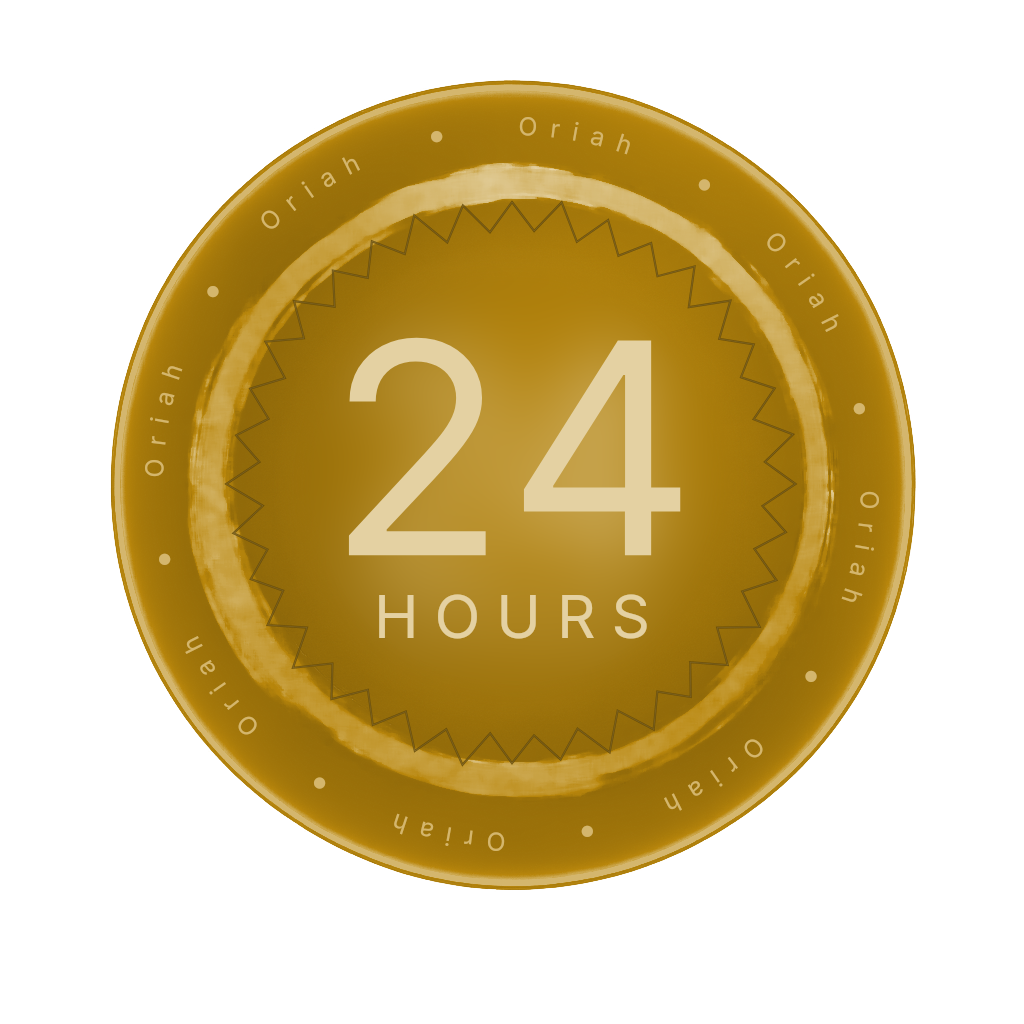
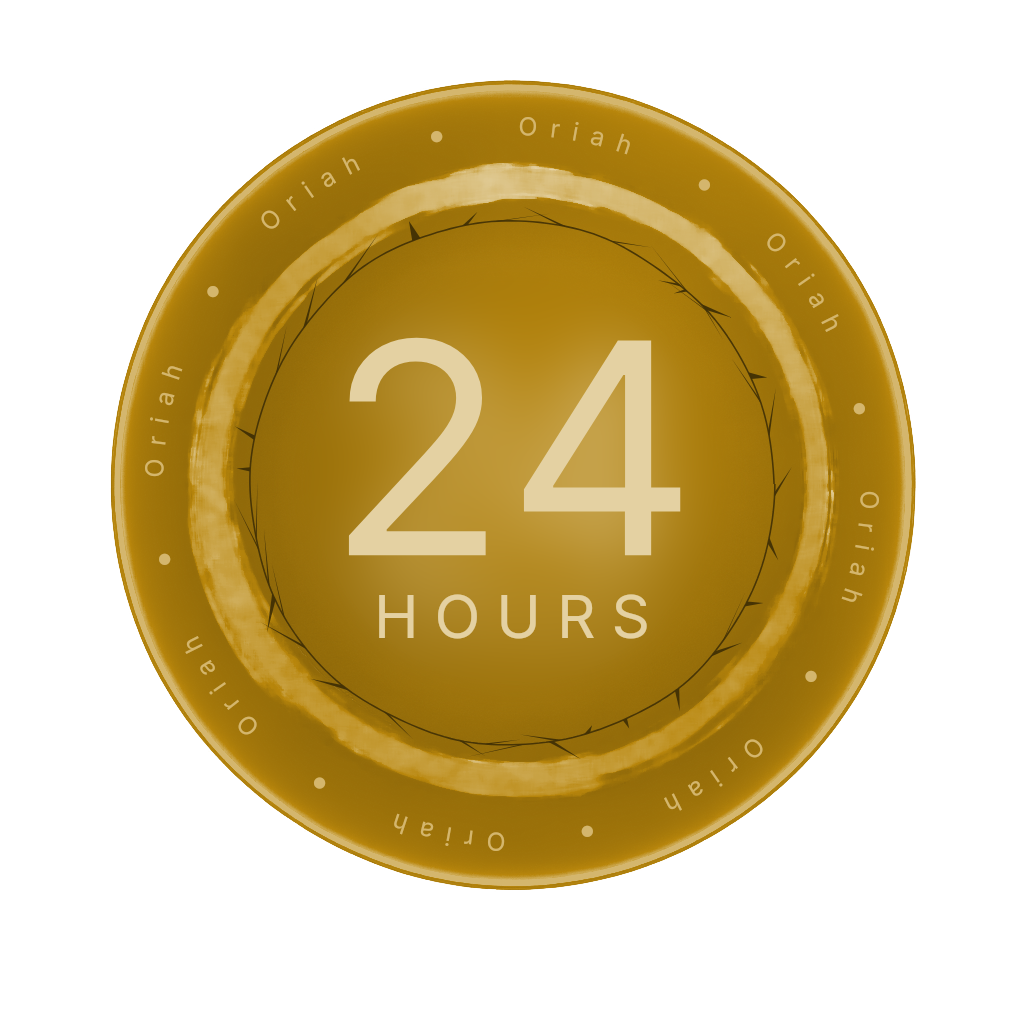
Oriah preview v2: organic thorn crown (woven branch + spikes)

diff --git a/oriah-badges-staging/scripts/generate-oriah-badges.ts b/oriah-badges-staging/scripts/generate-oriah-badges.ts
@@ -374,54 +374,116 @@ function drawMicroTypography(ctx: SKRSContext2D, hex: string) {
   ctx.drawImage(layer, 0, 0)
 }
 
-// Crown of thorns — a jagged closed ring drawn between the inner disc
-// and the chrome ring. Many sharp inward-pointing spikes around the
-// perimeter, evoking the crown without being literal. Drawn in a slightly
-// darker etched tone of the badge color so it reads as engraved metal.
+// Crown of thorns — a thin twisted branch encircling the inner disc, with
+// short sharp thorns sticking out at irregular angles. Aims to evoke
+// Christ's crown rather than read as a decorative sawtooth border. Drawn
+// in a darker etched tone of the badge color so it reads as engraved.
 function drawCrownOfThorns(ctx: SKRSContext2D, hex: string) {
-  // Spikes alternate between two radii (outer base + inner tip).
-  const baseR = 282      // outer line — sits just outside the inner disc edge
-  const tipR  = 252      // inner tip — pokes inward toward the date area
-  const points = 36      // number of inward spikes
-  // Small organic wobble so it doesn't read as perfectly geometric.
-  const wobble = 4
+  // Base radius of the woven branch. Sits just inside the chrome ring's
+  // inner edge (~r=265) and just outside where the date text reaches.
+  const branchR = 262
 
   const [r, g, b] = hexToRgb(hex)
-  // Darker, etched-into-metal tone — pull toward black + reduce sat.
-  const darkR = Math.round(r * 0.55)
-  const darkG = Math.round(g * 0.55)
-  const darkB = Math.round(b * 0.55)
+  // Dark etched tone — deeper version of the badge color, almost-black.
+  const darkR = Math.round(r * 0.35)
+  const darkG = Math.round(g * 0.35)
+  const darkB = Math.round(b * 0.35)
+  const stroke = `rgba(${darkR}, ${darkG}, ${darkB}, 0.9)`
+  const fill   = `rgba(${darkR}, ${darkG}, ${darkB}, 0.95)`
 
-  // Build the jagged closed path: outer vertex, inner tip, outer vertex, …
-  ctx.save()
-  ctx.beginPath()
-  for (let i = 0; i < points; i++) {
-    const baseAngle = (i / points) * Math.PI * 2 - Math.PI / 2
-    const tipAngle  = baseAngle + Math.PI / points
-    const br = baseR + (Math.sin(i * 1.7) * wobble)
-    const tr = tipR + (Math.cos(i * 2.3) * wobble * 0.5)
-    const bx = CX + Math.cos(baseAngle) * br
-    const by = CY + Math.sin(baseAngle) * br
-    const tx = CX + Math.cos(tipAngle) * tr
-    const ty = CY + Math.sin(tipAngle) * tr
-    if (i === 0) ctx.moveTo(bx, by)
-    else ctx.lineTo(bx, by)
-    ctx.lineTo(tx, ty)
+  // Deterministic pseudo-randomness so thorn placement is stable across runs.
+  let seed = 1337
+  const rand = () => {
+    seed = (seed * 1664525 + 1013904223) % 0x100000000
+    return seed / 0x100000000
   }
-  ctx.closePath()
+  const noise = (t: number) =>
+    Math.sin(t * 3.1) * 1.4 + Math.sin(t * 7.7 + 1.3) * 0.7 + Math.sin(t * 13.4 + 2.7) * 0.4
 
-  // Stroke only — keeps the interior visible (date showing through).
-  ctx.strokeStyle = `rgba(${darkR}, ${darkG}, ${darkB}, 0.85)`
-  ctx.lineWidth = 2.2
-  ctx.lineJoin = 'miter'
-  ctx.miterLimit = 4
+  ctx.save()
+
+  // 1. The woven branch — a thin closed circular line with subtle organic
+  //    wobble. Reads as a thin vine, not a perfect circle.
+  ctx.beginPath()
+  const ringPoints = 240
+  for (let i = 0; i <= ringPoints; i++) {
+    const t = (i / ringPoints) * Math.PI * 2
+    const rr = branchR + noise(t)
+    const x = CX + Math.cos(t) * rr
+    const y = CY + Math.sin(t) * rr
+    if (i === 0) ctx.moveTo(x, y)
+    else ctx.lineTo(x, y)
+  }
+  ctx.strokeStyle = stroke
+  ctx.lineWidth = 1.6
+  ctx.lineJoin = 'round'
   ctx.stroke()
 
-  // Subtle inner highlight — a fainter offset stroke on the lighter side
-  // so the thorns read as 3D etched marks, not flat outlines.
-  ctx.strokeStyle = `rgba(255, 255, 255, 0.12)`
-  ctx.lineWidth = 0.8
-  ctx.stroke()
+  // 2. Thorns — individual sharp triangular spikes anchored to the branch
+  //    at irregular intervals. Most point outward (away from center) like
+  //    a real thorn would grow; a handful point inward in different lengths
+  //    so the crown feels twisted, not radially perfect.
+  type Thorn = {
+    angle: number  // angular position around the ring
+    len: number    // distance from branch to tip
+    side: 1 | -1   // 1 = outward, -1 = inward
+    skew: number   // small angular skew so thorn isn't perfectly radial
+    base: number   // half-width at the base
+  }
+
+  const thorns: Thorn[] = []
+  // Outward thorns — ~28 around the ring, irregular spacing.
+  const N_OUT = 28
+  for (let i = 0; i < N_OUT; i++) {
+    const evenly = (i / N_OUT) * Math.PI * 2
+    const jitter = (rand() - 0.5) * (Math.PI * 2 / N_OUT) * 0.7
+    thorns.push({
+      angle: evenly + jitter,
+      len: 10 + rand() * 14,    // 10–24 px
+      side: 1,
+      skew: (rand() - 0.5) * 0.45,
+      base: 2 + rand() * 2.5,
+    })
+  }
+  // A scattering of shorter inward thorns — adds the "twisted" character.
+  const N_IN = 12
+  for (let i = 0; i < N_IN; i++) {
+    thorns.push({
+      angle: rand() * Math.PI * 2,
+      len: 5 + rand() * 9,       // 5–14 px, shorter than outward
+      side: -1,
+      skew: (rand() - 0.5) * 0.55,
+      base: 1.5 + rand() * 1.8,
+    })
+  }
+
+  for (const th of thorns) {
+    const rBranch = branchR + noise(th.angle)
+    const ax = CX + Math.cos(th.angle) * rBranch
+    const ay = CY + Math.sin(th.angle) * rBranch
+
+    // Tip — radially out or in, plus a small angular skew for organic feel.
+    const tipAngle = th.angle + th.skew
+    const tipR = rBranch + th.side * th.len
+    const tx = CX + Math.cos(tipAngle) * tipR
+    const ty = CY + Math.sin(tipAngle) * tipR
+
+    // Base — perpendicular to the radial direction at the branch.
+    const perp = th.angle + Math.PI / 2
+    const b1x = ax + Math.cos(perp) * th.base
+    const b1y = ay + Math.sin(perp) * th.base
+    const b2x = ax - Math.cos(perp) * th.base
+    const b2y = ay - Math.sin(perp) * th.base
+
+    ctx.beginPath()
+    ctx.moveTo(b1x, b1y)
+    ctx.lineTo(tx, ty)
+    ctx.lineTo(b2x, b2y)
+    ctx.closePath()
+    ctx.fillStyle = fill
+    ctx.fill()
+  }
+
   ctx.restore()
 }
 
